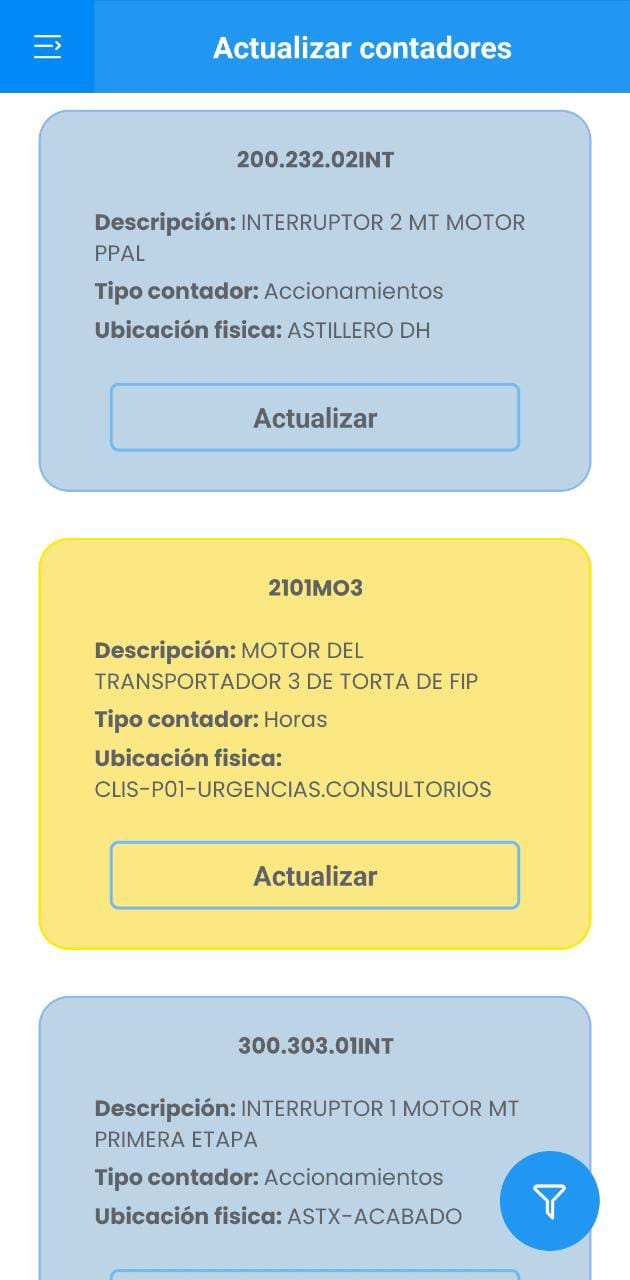
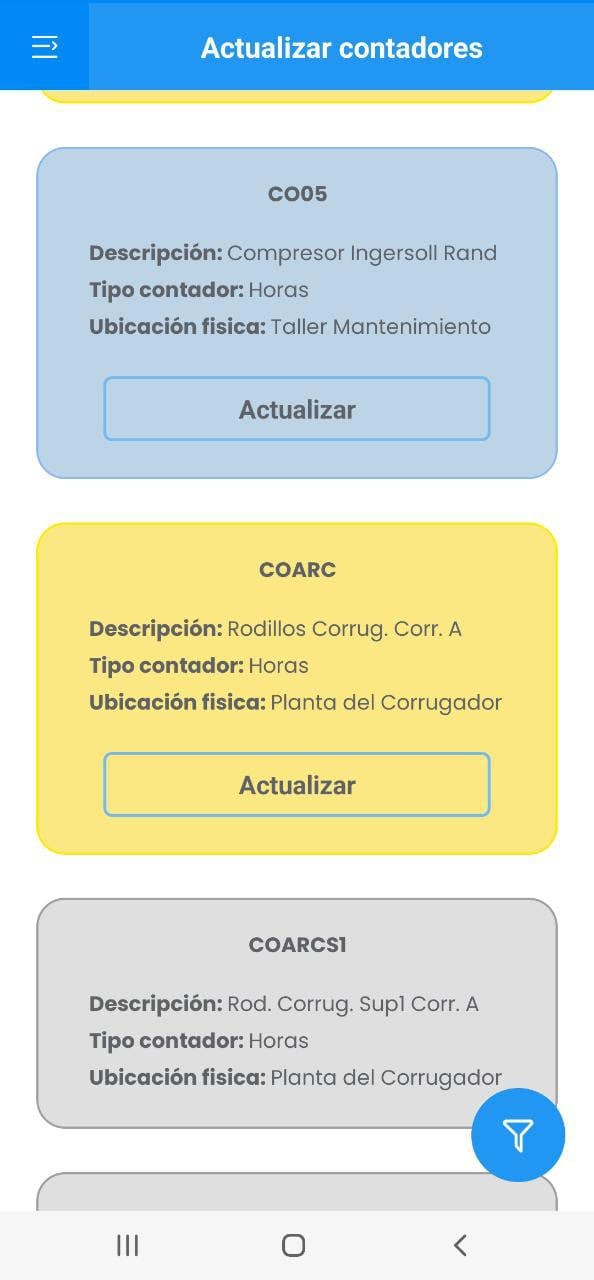
actualizacion imagenes amovil

diff --git a/_docs/16_00_AMovil.md b/_docs/16_00_AMovil.md
@@ -311,3 +311,7 @@ A continuación se muestra el listado de los Activos que tienen asociado un cont
 
 ![Procesar imagen](https://ayuda.winsoftware.com.co/assets/images/cap16/chp16_img27.jpeg)
 _**Imagen 27.** AMovil - Ir a Actualizar Contadores_
+
+Los Activos sombreados de color azul son Activos definidos como **"Padres"** o son unidades funcionales, mientras que los sombreados en amarillo significan Activos que se definieron como **"Hijos"** o componentes del Activo Padre.
+
+Los Activos sombreados en gris indican que son registros que cumplen con una condición en especial 
